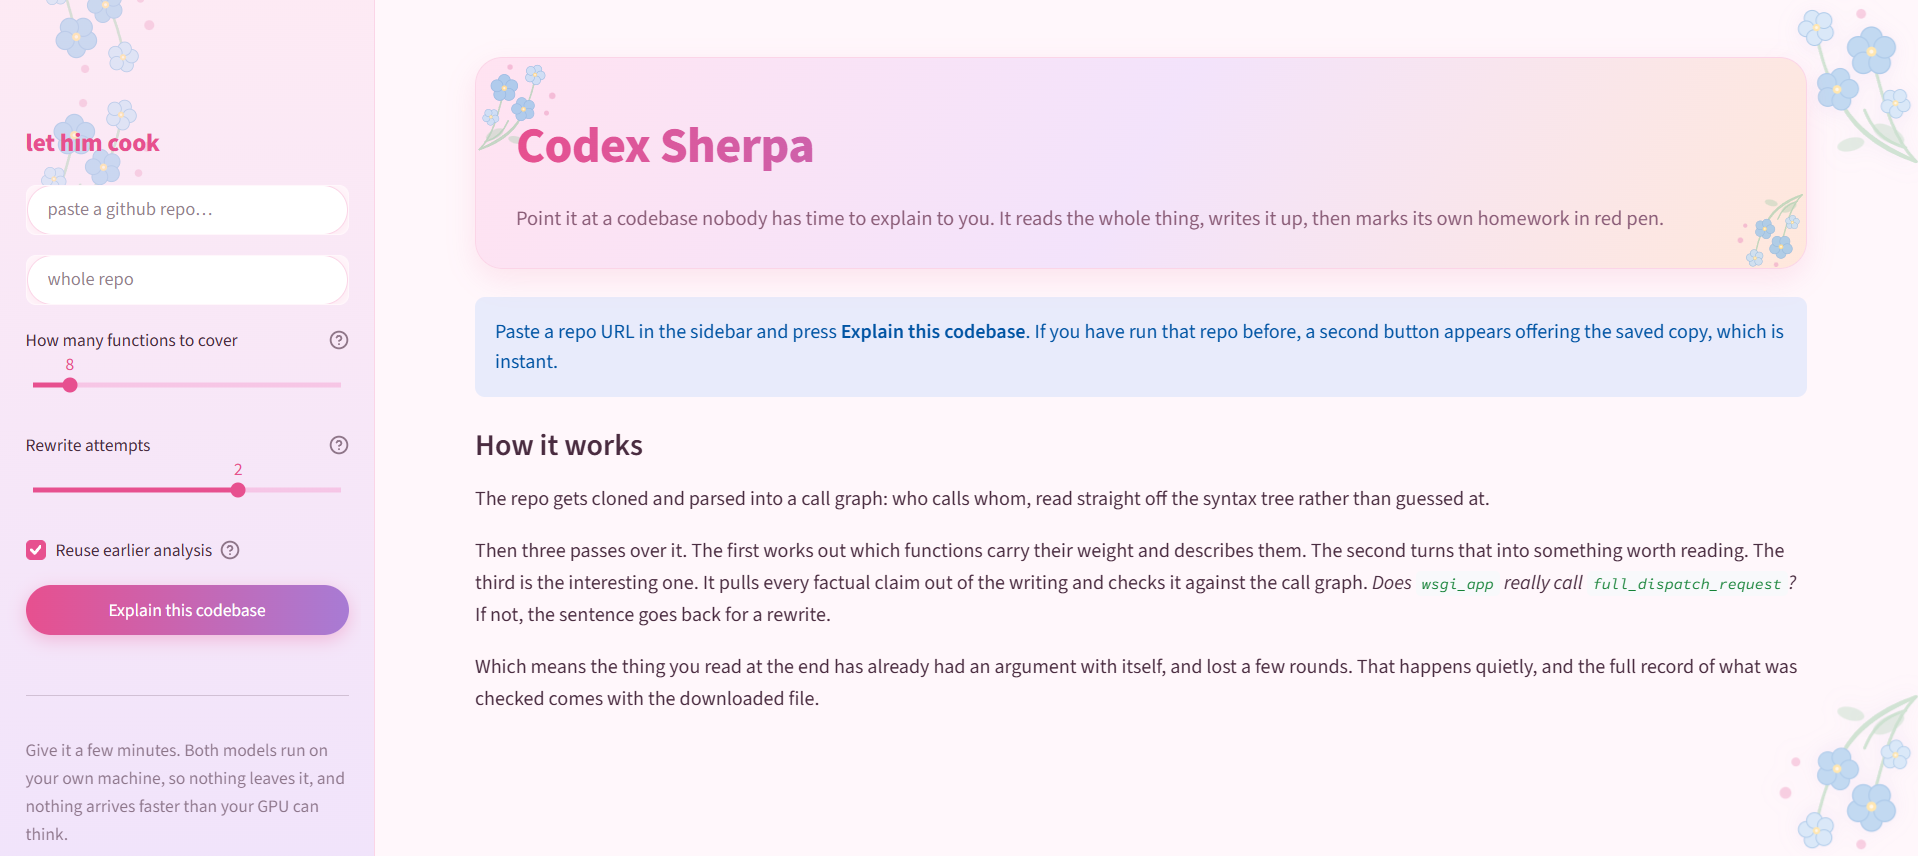
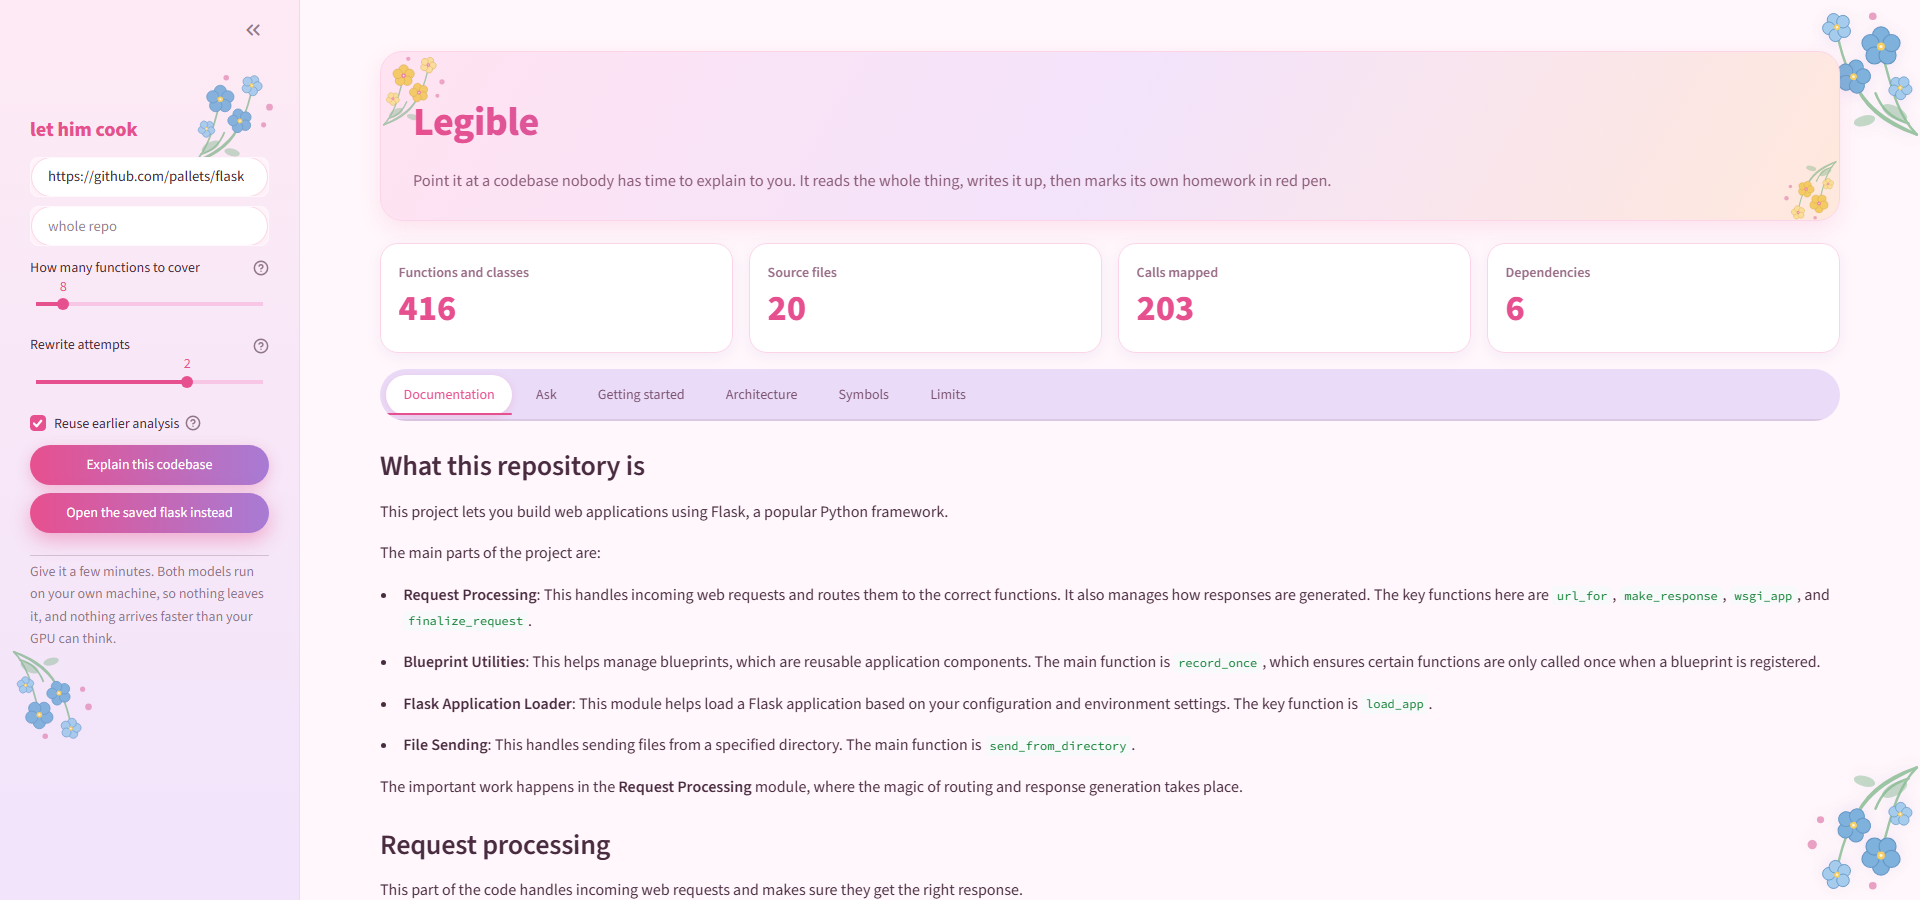
New screenshot, showing a real result
The old one still said Codex Sherpa, so the README and the image it leads with
disagreed about the project's name. Recaptured with the saved flask run loaded
rather than the empty landing page: metrics, tabs and generated prose, which is
what the tool is for.

The sidebar's top sprig moves to the right edge. Left-anchored it ran through
'let him cook' — readable, since the text paints above it, but crowded.

TODO.md claimed the screenshot was missing and the project unpublished. Both
were stale, and I repeated the first back as fact without checking.

diff --git a/app.py b/app.py
@@ -324,7 +324,10 @@ hr {{ border-color: {PALETTE['pink_soft']}; }}
     opacity: 0.75;
     z-index: 0;
 }}
-.legible-sb-flower--top {{ top: -24px; left: -26px; }}
+/* Anchored right, not left. The header is left-aligned, and a left-hand sprig
+   ran straight through "let him cook" — legible, since the text sits above it,
+   but crowded. There is nothing on the right of that row to collide with. */
+.legible-sb-flower--top {{ top: -20px; right: -30px; }}
 .legible-sb-flower--bottom {{ bottom: -12px; left: -30px; transform: scaleY(-1); }}
 [data-testid="stSidebar"] [data-testid="stSidebarUserContent"] {{
     position: relative;

diff --git a/TODO.md b/TODO.md
@@ -12,32 +12,14 @@ a handful of things that were considered and deliberately not built.
 | The 12-phase build plan | 100% — every phase done |
 | Works on real repositories | 100% — 8 repos, 3 languages, most recent run 8/8 |
 | Tests | ~182 offline checks, all passing |
-| Documentation for a stranger | 90% — README rewritten, screenshot missing |
-| Published | 0% — never pushed anywhere |
-
-The 10% gap is almost entirely "nobody else can see it".
+| Documentation for a stranger | 100% — README rewritten, screenshot in place |
+| Published | 100% — live at github.com/rithuganapathy/Legible |
 
 ---
 
 ## Must do to call it finished
 
-### 1. Screenshot (5 minutes)
-
-The README references `docs/screenshot.png`, which does not exist yet, so the
-image is currently broken on GitHub.
-
-```bash
-streamlit run app.py
-```
-
-Load a repo, take a screenshot of the browser, save it as `docs/screenshot.png`.
-Nothing else needs changing: the README already points at it.
-
-### 2. Push to GitHub (5 minutes)
-
-Steps are at the bottom of this file.
-
-### 3. Decide about a licence (2 minutes)
+### 1. Decide about a licence (2 minutes)
 
 There is none, which means the code is **all rights reserved** by default:
 people may read it on GitHub but may not legally copy, run or build on it. That
